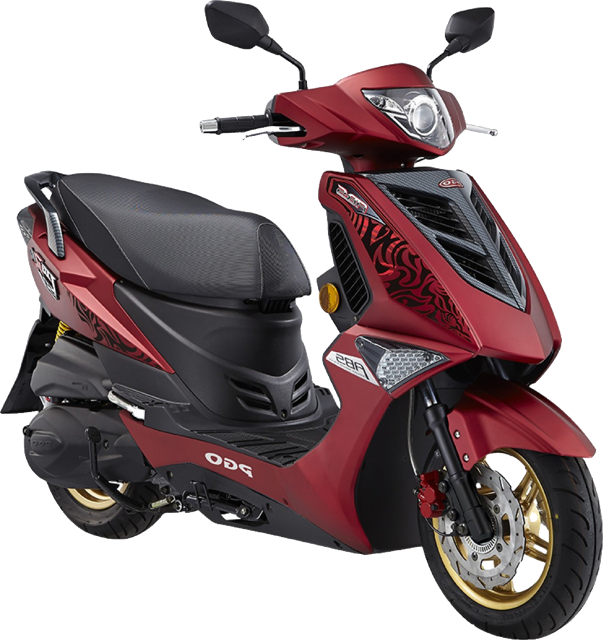
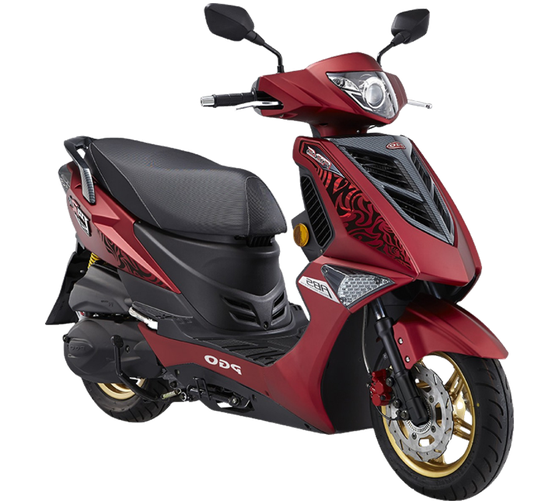
Photos : nettoyage des détourages, bords lissés, cadrage uniforme, WebP (4,2 Mo -> 0,85 Mo), liseré en mode sombre
Claude-Session: https://claude.ai/code/session_01LUadX9RA5ykAi7zxkQXocc

diff --git a/donnees.js b/donnees.js
@@ -25,108 +25,108 @@ window.DMS_DONNEES = {
        tailles : [taille, tour de tête en cm]. versions : [version, précision] (au choix du client).
        cylindree peut être une liste, ex. [125, 150]. photoProvisoire : affiche « Photo non contractuelle ». */
     { id: 'cygnus-3', cat: 'scooters', nom: 'Yamaha Cygnus 3', detail: '125 cc · Occasion Taïwan', stock: null, cylindree: 125, prix: null,
-      img: 'img/cygnus-3.png', vedette: true,
+      img: 'img/cygnus-3.webp', vedette: true,
       specs: [['125 cc', 'Cylindrée'], ['3e', 'Génération'], ['Taïwan', 'Origine'], ['Révisé', 'Au garage']],
       description: "Yamaha Cygnus X de 3e génération, importé de Taïwan et révisé au garage. Prix, année et kilométrage sur demande." },
     { id: 'cygnus-2', cat: 'scooters', nom: 'Yamaha Cygnus 2', detail: '125 cc · Occasion Taïwan', stock: null, cylindree: 125, prix: null,
-      img: 'img/cygnus-2.png', vedette: true,
+      img: 'img/cygnus-2.webp', vedette: true,
       specs: [['125 cc', 'Cylindrée'], ['2e', 'Génération'], ['Taïwan', 'Origine'], ['Révisé', 'Au garage']],
       description: "Yamaha Cygnus X de 2e génération, importé de Taïwan et révisé au garage. Prix, année et kilométrage sur demande." },
     { id: 'cygnus-1', cat: 'scooters', nom: 'Yamaha Cygnus 1', detail: '125 cc · Occasion Taïwan', stock: null, cylindree: 125, prix: null,
-      img: 'img/cygnus-1.png',
+      img: 'img/cygnus-1.webp',
       specs: [['125 cc', 'Cylindrée'], ['1re', 'Génération'], ['Taïwan', 'Origine'], ['Révisé', 'Au garage']],
       description: "Yamaha Cygnus X de 1re génération, importé de Taïwan et révisé au garage. Prix, année et kilométrage sur demande." },
     { id: 'cygnus-4', cat: 'scooters', nom: 'Yamaha Cygnus 4', detail: '125 cc · Occasion Taïwan', stock: null, cylindree: 125, prix: null,
-      img: 'img/cygnus-4.png',
+      img: 'img/cygnus-4.webp',
       specs: [['125 cc', 'Cylindrée'], ['4e', 'Génération'], ['Taïwan', 'Origine'], ['Révisé', 'Au garage']],
       description: "Yamaha Cygnus X de 4e génération, importé de Taïwan et révisé au garage. Prix, année et kilométrage sur demande." },
     { id: 'rs-zero', cat: 'scooters', nom: 'Yamaha RS Zero', detail: '100 cc · Occasion Taïwan', stock: null, cylindree: 100, prix: null,
-      img: 'img/rs-zero.png',
+      img: 'img/rs-zero.webp',
       specs: [['100 cc', 'Cylindrée'], ['Léger', 'Gabarit'], ['Taïwan', 'Origine'], ['Révisé', 'Au garage']],
       description: "Yamaha RS Zero 100 cc, léger et économique pour la ville, importé de Taïwan et révisé au garage. Prix, année et kilométrage sur demande." },
     { id: 'yamaha-force', cat: 'scooters', nom: 'Yamaha Force 155', detail: '155 cc · Occasion Taïwan', stock: null, cylindree: 155, prix: null,
-      img: 'img/yamaha-force.png',
+      img: 'img/yamaha-force.webp',
       specs: [['155 cc', 'Cylindrée'], ['Sport', 'Style'], ['Taïwan', 'Origine'], ['Révisé', 'Au garage']],
       description: "Yamaha Force 155 au style sportif, importé de Taïwan et révisé au garage. Le plus puissant de la gamme, à l'aise en ville comme sur la route. Prix, année et kilométrage sur demande." },
     { id: 'kymco-g6', cat: 'scooters', nom: 'Kymco G6', detail: '125 ou 150 cc · Occasion Taïwan', stock: null, cylindree: [125, 150], prix: null,
-      img: 'img/kymco-g6.png', vedette: true,
+      img: 'img/kymco-g6.webp', vedette: true,
       versions: [['125 cc', ''], ['150 cc', ''], ['150 VVCS', ''], ['150 ABS', 'Freinage ABS']],
       specs: [['125–150', 'cc'], ['4', 'Versions'], ['Taïwan', 'Origine'], ['Révisé', 'Au garage']],
       description: "Kymco G6 importé de Taïwan et révisé au garage, disponible selon arrivage en 125 cc, 150 cc, 150 VVCS (distribution variable) ou 150 ABS. Prix, année et kilométrage sur demande." },
     { id: 'kymco-vjr-110', cat: 'scooters', nom: 'Kymco VJR 100/110', detail: '100 ou 110 cc · Occasion Taïwan', stock: null, cylindree: [100, 110], prix: null,
-      img: 'img/kymco-vjr-110.png',
+      img: 'img/kymco-vjr-110.webp',
       versions: [['100 cc', ''], ['110 cc', '']],
       specs: [['100–110', 'cc'], ['2', 'Versions'], ['Taïwan', 'Origine'], ['Révisé', 'Au garage']],
       description: "Kymco VJR importé de Taïwan et révisé au garage, disponible selon arrivage en 100 cc ou 110 cc. Léger et économique pour la ville. Prix, année et kilométrage sur demande." },
     { id: 'kymco-vjr-125', cat: 'scooters', nom: 'Kymco VJR 125', detail: '125 cc · Occasion Taïwan', stock: null, cylindree: 125, prix: null,
-      img: 'img/kymco-vjr-125.png',
+      img: 'img/kymco-vjr-125.webp',
       versions: [['125 cc', ''], ['125 ABS', 'Freinage ABS']],
       specs: [['125 cc', 'Cylindrée'], ['ABS', 'En option'], ['Taïwan', 'Origine'], ['Révisé', 'Au garage']],
       description: "Kymco VJR 125 importé de Taïwan et révisé au garage, disponible selon arrivage en version standard ou ABS. Prix, année et kilométrage sur demande." },
     { id: 'pgo-bon', cat: 'scooters', nom: 'PGO Bon 125', detail: '125 cc · Occasion Taïwan', stock: null, cylindree: 125, prix: null,
-      img: 'img/pgo-bon.png',
+      img: 'img/pgo-bon.webp',
       specs: [['125 cc', 'Cylindrée'], ['PGO', 'Marque'], ['Taïwan', 'Origine'], ['Révisé', 'Au garage']],
       description: "PGO Bon 125 importé de Taïwan et révisé au garage. Prix, année et kilométrage sur demande." },
     { id: 'kymco-g5', cat: 'scooters', nom: 'Kymco G5 Megafi', detail: '125 ou 150 cc · Occasion Taïwan', stock: null, cylindree: [125, 150], prix: null,
-      img: 'img/kymco-g5.png',
+      img: 'img/kymco-g5.webp',
       versions: [['125 cc', ''], ['150 cc', ''], ['125 G6E', ''], ['125 XSENSE', '']],
       specs: [['125–150', 'cc'], ['4', 'Versions'], ['Taïwan', 'Origine'], ['Révisé', 'Au garage']],
       description: "Kymco G5 Megafi importé de Taïwan et révisé au garage, disponible selon arrivage en 125 cc, 150 cc, 125 G6E ou 125 XSENSE. Prix, année et kilométrage sur demande." },
     { id: 'pgo-jbubu', cat: 'scooters', nom: "PGO J'Bubu", detail: '115 ou 125 cc · Occasion Taïwan', stock: null, cylindree: [115, 125], prix: null,
-      img: 'img/pgo-jbubu.png',
+      img: 'img/pgo-jbubu.webp',
       versions: [['115 cc', ''], ['125 cc', '']],
       specs: [['115–125', 'cc'], ['Rétro', 'Style'], ['Taïwan', 'Origine'], ['Révisé', 'Au garage']],
       description: "PGO J'Bubu au style rétro, importé de Taïwan et révisé au garage, disponible selon arrivage en 115 cc ou 125 cc. Prix, année et kilométrage sur demande." },
     { id: 'kymco-gp', cat: 'scooters', nom: 'Kymco GP 125', detail: '125 cc · Occasion Taïwan', stock: null, cylindree: 125, prix: null,
-      img: 'img/kymco-gp.png',
+      img: 'img/kymco-gp.webp',
       versions: [['Carburateur', ''], ['Injection', '']],
       specs: [['125 cc', 'Cylindrée'], ['2 types', 'Alimentation'], ['Taïwan', 'Origine'], ['Révisé', 'Au garage']],
       description: "Kymco GP 125 importé de Taïwan et révisé au garage, disponible selon arrivage à carburateur ou à injection. Prix, année et kilométrage sur demande." },
     { id: 'kymco-gp2', cat: 'scooters', nom: 'Kymco GP II 125', detail: '125 cc · Occasion Taïwan', stock: null, cylindree: 125, prix: null,
-      img: 'img/kymco-gp2.png',
+      img: 'img/kymco-gp2.webp',
       versions: [['Carburateur', ''], ['Injection', '']],
       specs: [['125 cc', 'Cylindrée'], ['2 types', 'Alimentation'], ['Taïwan', 'Origine'], ['Révisé', 'Au garage']],
       description: "Kymco GP II 125 importé de Taïwan et révisé au garage, disponible selon arrivage à carburateur ou à injection. Prix, année et kilométrage sur demande." },
     { id: 'sym-jet-sr', cat: 'scooters', nom: 'SYM Jet SR', detail: '125 cc · Occasion Taïwan', stock: null, cylindree: 125, prix: null,
-      img: 'img/sym-jet-sr.png',
+      img: 'img/sym-jet-sr.webp',
       versions: [['125 cc', ''], ['125 ABS', 'Freinage ABS']],
       specs: [['125 cc', 'Cylindrée'], ['ABS', 'En option'], ['Taïwan', 'Origine'], ['Révisé', 'Au garage']],
       description: "SYM Jet SR importé de Taïwan et révisé au garage, disponible selon arrivage en version standard ou ABS. Prix, année et kilométrage sur demande." },
     { id: 'sym-jet-evo', cat: 'scooters', nom: 'SYM Jet Evo 125', detail: '125 cc · Occasion Taïwan', stock: null, cylindree: 125, prix: null,
-      img: 'img/sym-jet-evo.png',
+      img: 'img/sym-jet-evo.webp',
       specs: [['125 cc', 'Cylindrée'], ['SYM', 'Marque'], ['Taïwan', 'Origine'], ['Révisé', 'Au garage']],
       description: "SYM Jet Evo 125 importé de Taïwan et révisé au garage. Prix, année et kilométrage sur demande." },
     { id: 'kymco-many', cat: 'scooters', nom: 'Kymco Many 100/110', detail: '100 ou 110 cc · Occasion Taïwan', stock: null, cylindree: [100, 110], prix: null,
-      img: 'img/kymco-many.png',
+      img: 'img/kymco-many.webp',
       versions: [['100 cc', ''], ['110 cc', '']],
       specs: [['100–110', 'cc'], ['Rétro', 'Style'], ['Taïwan', 'Origine'], ['Révisé', 'Au garage']],
       description: "Kymco Many au style rétro, importé de Taïwan et révisé au garage, disponible selon arrivage en 100 cc ou 110 cc. Léger et facile à prendre en main. Prix, année et kilométrage sur demande." },
     { id: 'kymco-new-many', cat: 'scooters', nom: 'Kymco New Many', detail: '125 cc · Occasion Taïwan', stock: null, cylindree: 125, prix: null,
-      img: 'img/kymco-new-many.png',
+      img: 'img/kymco-new-many.webp',
       versions: [['125 cc', ''], ['125 ABS', 'Freinage ABS']],
       specs: [['125 cc', 'Cylindrée'], ['Rétro', 'Style'], ['Taïwan', 'Origine'], ['Révisé', 'Au garage']],
       description: "Kymco New Many au style rétro, importé de Taïwan et révisé au garage, disponible selon arrivage en version standard ou ABS. Prix, année et kilométrage sur demande." },
     { id: 'pgo-tigra', cat: 'scooters', nom: 'PGO Tigra', detail: '125 ou 150 cc · Occasion Taïwan', stock: null, cylindree: [125, 150], prix: null,
-      img: 'img/pgo-tigra.png',
+      img: 'img/pgo-tigra.webp',
       versions: [['125 cc', ''], ['150 cc', ''], ['150 ABS', 'Freinage ABS']],
       specs: [['125–150', 'cc'], ['3', 'Versions'], ['Taïwan', 'Origine'], ['Révisé', 'Au garage']],
       description: "PGO Tigra sportif, importé de Taïwan et révisé au garage, disponible selon arrivage en 125 cc, 150 cc ou 150 ABS. Prix, année et kilométrage sur demande." },
     { id: 'kit-freinage', cat: 'pieces', nom: 'Kit freinage', detail: 'Plaquettes + disque', stock: 12, prix: 45000, ancienPrix: 53000,
-      img: 'img/pieces.png', rond: true, badge: '-15 %',
+      img: 'img/pieces.webp', rond: true, badge: '-15 %',
       description: "Plaquettes et disque avant, compatibles avec la plupart des 125 cc. Pose possible au garage." },
-    { id: 'courroie', cat: 'pieces', nom: 'Courroie', detail: 'Transmission 125 cc', stock: 6, prix: 38000, img: 'img/pieces.png', rond: true,
+    { id: 'courroie', cat: 'pieces', nom: 'Courroie', detail: 'Transmission 125 cc', stock: 6, prix: 38000, img: 'img/pieces.webp', rond: true,
       description: "Courroie de transmission renforcée. À changer environ tous les 15 000 km." },
-    { id: 'filtre-air', cat: 'pieces', nom: 'Filtre à air', detail: 'Toutes cylindrées', stock: 2, prix: 15000, img: 'img/pieces.png', rond: true,
+    { id: 'filtre-air', cat: 'pieces', nom: 'Filtre à air', detail: 'Toutes cylindrées', stock: 2, prix: 15000, img: 'img/pieces.webp', rond: true,
       description: "Filtre à air lavable. Conseillé à chaque vidange en saison sèche." },
-    { id: 'bougie', cat: 'pieces', nom: 'Bougie', detail: 'Allumage 50–150 cc', stock: 30, prix: 8000, img: 'img/pieces.png', rond: true,
+    { id: 'bougie', cat: 'pieces', nom: 'Bougie', detail: 'Allumage 50–150 cc', stock: 30, prix: 8000, img: 'img/pieces.webp', rond: true,
       description: "Bougie d'allumage standard pour scooters 4 temps." },
-    { id: 'casque-jet', cat: 'accessoires', nom: 'Casque jet', detail: 'Noir mat · M, L, XL', stock: 8, tailles: [['M', '57–58'], ['L', '59–60'], ['XL', '61–62']], prix: 85000, img: 'img/casque.png',
+    { id: 'casque-jet', cat: 'accessoires', nom: 'Casque jet', detail: 'Noir mat · M, L, XL', stock: 8, tailles: [['M', '57–58'], ['L', '59–60'], ['XL', '61–62']], prix: 85000, img: 'img/casque.webp',
       description: "Casque jet homologué, calotte légère, intérieur amovible et lavable." },
-    { id: 'casque-visiere', cat: 'accessoires', nom: 'Casque jet visière', detail: 'Noir · M, L', stock: 4, tailles: [['M', '57–58'], ['L', '59–60']], prix: 120000, img: 'img/casque.png', badge: 'Nouveau',
+    { id: 'casque-visiere', cat: 'accessoires', nom: 'Casque jet visière', detail: 'Noir · M, L', stock: 4, tailles: [['M', '57–58'], ['L', '59–60']], prix: 120000, img: 'img/casque.webp', badge: 'Nouveau',
       description: "Casque jet avec visière longue, pratique sous la pluie." },
-    { id: 'casque-enfant', cat: 'accessoires', nom: 'Casque enfant', detail: 'Noir · S', stock: 2, tailles: [['S', '52–54']], prix: 65000, img: 'img/casque.png',
+    { id: 'casque-enfant', cat: 'accessoires', nom: 'Casque enfant', detail: 'Noir · S', stock: 2, tailles: [['S', '52–54']], prix: 65000, img: 'img/casque.webp',
       description: "Casque léger pour enfant, taille S." },
-    { id: 'casque-integral', cat: 'accessoires', nom: 'Casque intégral', detail: 'Noir mat · L', stock: 1, tailles: [['L', '59–60']], prix: 180000, ancienPrix: 225000, img: 'img/casque.png', badge: '-20 %',
+    { id: 'casque-integral', cat: 'accessoires', nom: 'Casque intégral', detail: 'Noir mat · L', stock: 1, tailles: [['L', '59–60']], prix: 180000, ancienPrix: 225000, img: 'img/casque.webp', badge: '-20 %',
       description: "Protection maximale pour les longs trajets." }
   ]
 };

diff --git a/app.js b/app.js
@@ -67,7 +67,7 @@
       <div class="col" style="flex:1"><span class="petit" style="font-size:13px">Manao ahoana !</span><b style="font-size:17px;font-weight:600">${B.nom}</b></div>
       <a class="rond" href="https://wa.me/${B.whatsapp}" target="_blank" rel="noopener" aria-label="Écrire à la boutique sur WhatsApp">${ic('bulle')}</a></div>
     <div class="banniere"><div class="fond"></div>
-      <img class="moto" src="img/cygnus-3.png" alt="">
+      <img class="moto" src="img/cygnus-3.webp" alt="">
       <div class="txt"><b>Roulez plus loin,<br><span>payez moins.</span></b><span class="sous">Yamaha, Kymco, SYM et PGO révisés, pièces et casques.</span><a href="#catalogue">Voir le catalogue</a></div></div>
     <form class="champ" data-form="recherche" role="search">${ic('loupe', 18, 'style="color:var(--muted)"')}<input type="search" name="q" placeholder="Scooter, pièce, casque…" aria-label="Rechercher un produit"></form>
     <div class="defile" aria-label="Rayons">${D.categories.map((c) => `<a class="puce" href="#catalogue-${c.id}">${ic(c.icone, 18)}${c.nom}</a>`).join('')}</div>
@@ -191,7 +191,7 @@
     <div class="hero" style="height:240px"><a href="#${ui.retour === 'paiement' ? 'panier' : 'compte'}" class="rond" style="position:relative;background:var(--fort-ghost);color:var(--fort-txt)" aria-label="Retour">${ic('retour')}</a>
       <img src="img/logo.jpg" alt="Dagomotoshop" style="position:relative;width:60px;height:60px;border-radius:14px;margin-top:14px">
       <p style="position:relative;color:var(--fort-txt);font-weight:700;font-size:22px;line-height:1.2;max-width:210px;margin:12px 0 0">${ui.retour === 'paiement' ? 'Plus qu’une étape avant votre <span class="surl">réservation.</span>' : 'Retrouvez vos <span class="surl">commandes.</span>'}</p></div>
-    <img src="img/scooter.png" alt="" style="position:absolute;z-index:3;right:-26px;top:calc(100px + env(safe-area-inset-top));width:176px;filter:drop-shadow(0 14px 14px rgba(0,0,0,.45))">
+    <img src="img/scooter.webp" alt="" style="position:absolute;z-index:3;right:-26px;top:calc(100px + env(safe-area-inset-top));width:176px;filter:drop-shadow(0 14px 14px rgba(0,0,0,.45))">
     <div class="dessus" style="gap:12px;padding-top:22px">
       <div class="col" style="gap:4px"><h1 class="h2" style="font-size:20px">Connectez-vous</h1><span class="petit" style="font-size:13px">En un clic, sans mot de passe.</span></div>
       <button class="btn fb" data-a="cnx" data-id="facebook">${LOGO_FB}Continuer avec Facebook</button>

diff --git a/sw.js b/sw.js
@@ -1,8 +1,8 @@
 /* Service worker : garde l'app disponible hors connexion.
    Change VERSION à chaque mise en ligne pour que les téléphones prennent la nouvelle version. */
-const VERSION = 'dms-v17';
+const VERSION = 'dms-v18';
 const FICHIERS = ['./', 'index.html', 'styles.css?v=14', 'app.js?v=14', 'donnees.js?v=14', 'icones.js?v=14', 'manifest.webmanifest',
-  'img/logo.jpg', 'img/scooter.png', 'img/cygnus-1.png', 'img/cygnus-2.png', 'img/cygnus-3.png', 'img/rs-zero.png', 'img/cygnus-4.png', 'img/kymco-g6.png', 'img/pgo-bon.png', 'img/kymco-vjr-110.png', 'img/kymco-vjr-125.png', 'img/kymco-g5.png', 'img/pgo-jbubu.png', 'img/kymco-gp.png', 'img/kymco-gp2.png', 'img/sym-jet-sr.png', 'img/sym-jet-evo.png', 'img/kymco-new-many.png', 'img/pgo-tigra.png', 'img/casque.png', 'img/pieces.png', 'img/icone-192.png', 'img/icone-512.png'];
+  'img/logo.jpg', 'img/scooter.webp', 'img/cygnus-1.webp', 'img/cygnus-2.webp', 'img/cygnus-3.webp', 'img/rs-zero.webp', 'img/cygnus-4.webp', 'img/kymco-g6.webp', 'img/pgo-bon.webp', 'img/kymco-vjr-110.webp', 'img/kymco-vjr-125.webp', 'img/kymco-g5.webp', 'img/pgo-jbubu.webp', 'img/kymco-gp.webp', 'img/kymco-gp2.webp', 'img/sym-jet-sr.webp', 'img/sym-jet-evo.webp', 'img/kymco-new-many.webp', 'img/pgo-tigra.webp', 'img/casque.webp', 'img/pieces.webp', 'img/icone-192.png', 'img/icone-512.png'];
 
 self.addEventListener('install', (e) => {
   e.waitUntil(caches.open(VERSION).then((c) => c.addAll(FICHIERS)).then(() => self.skipWaiting()));

diff --git a/index.html b/index.html
@@ -13,7 +13,7 @@
 <meta name="apple-mobile-web-app-title" content="Dagomoto">
 <link rel="preconnect" href="https://fonts.googleapis.com">
 <link rel="stylesheet" href="https://fonts.googleapis.com/css2?family=Manrope:wght@400;500;600;700;800&display=swap">
-<link rel="stylesheet" href="styles.css?v=17">
+<link rel="stylesheet" href="styles.css?v=18">
 </head>
 <body>
 <div class="app">
@@ -23,8 +23,8 @@
 <div id="feuille"></div>
 <div id="toast" class="toast" role="status"></div>
 <noscript><p style="padding:20px">Activez JavaScript pour utiliser l'application Dagomotoshop.</p></noscript>
-<script src="icones.js?v=17"></script>
-<script src="donnees.js?v=17"></script>
-<script src="app.js?v=17"></script>
+<script src="icones.js?v=18"></script>
+<script src="donnees.js?v=18"></script>
+<script src="app.js?v=18"></script>
 </body>
 </html>

diff --git a/styles.css b/styles.css
@@ -187,3 +187,5 @@ svg{flex-shrink:0}
 .prod .prix,.mini .prix{white-space:normal;line-height:1.25}
 .prod .ligne.entre{gap:8px}
 .hero .rond:not(.lime){background:var(--bg)}
+/* Mode sombre : léger liseré clair pour que les scooters noirs ne se perdent pas dans le fond */
+@media (prefers-color-scheme:dark){.prod .boite img:not(.rondimg),.mini .boite img:not(.rondimg),.offre .vis:not(.rondimg),.hero-img:not(.rondimg),.banniere .moto,.vign img:not(.rondimg){filter:drop-shadow(0 0 1px rgba(255,255,255,.35)) drop-shadow(0 8px 10px rgba(0,0,0,.5))}}
